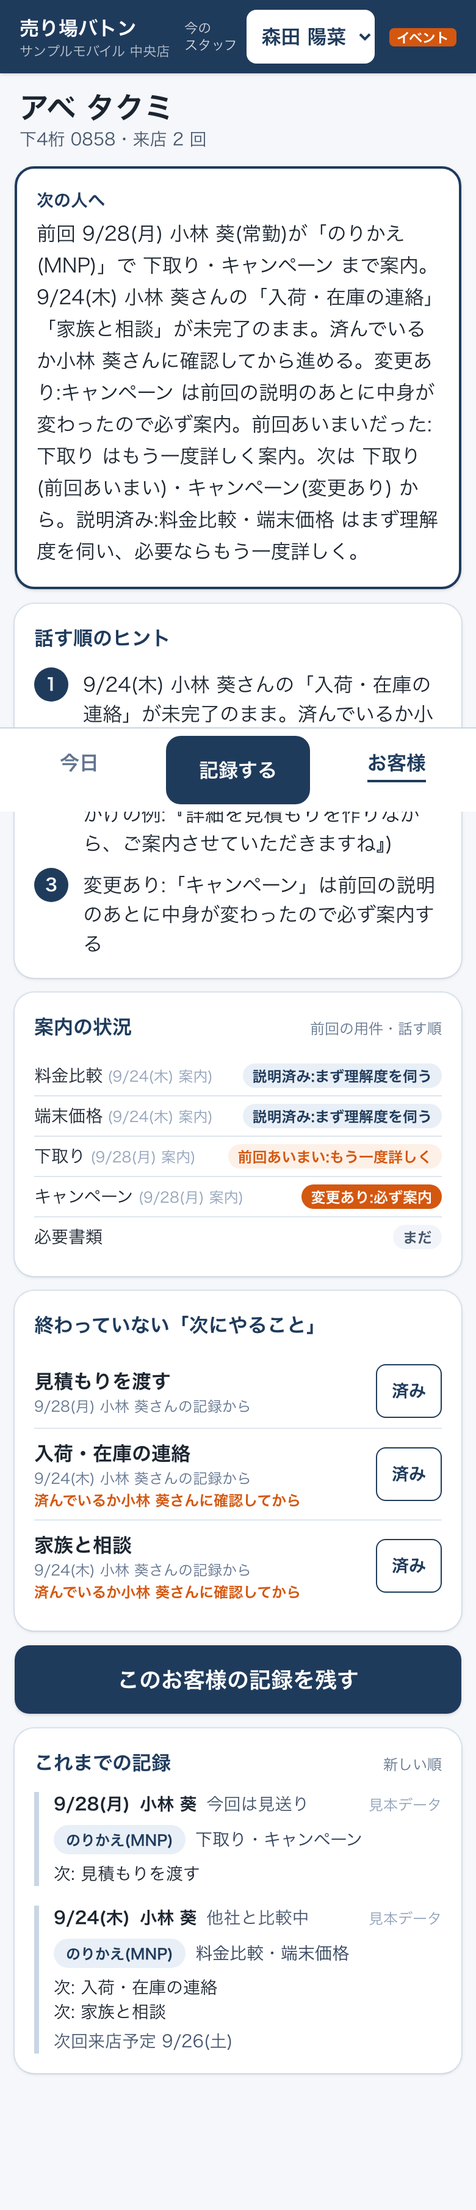
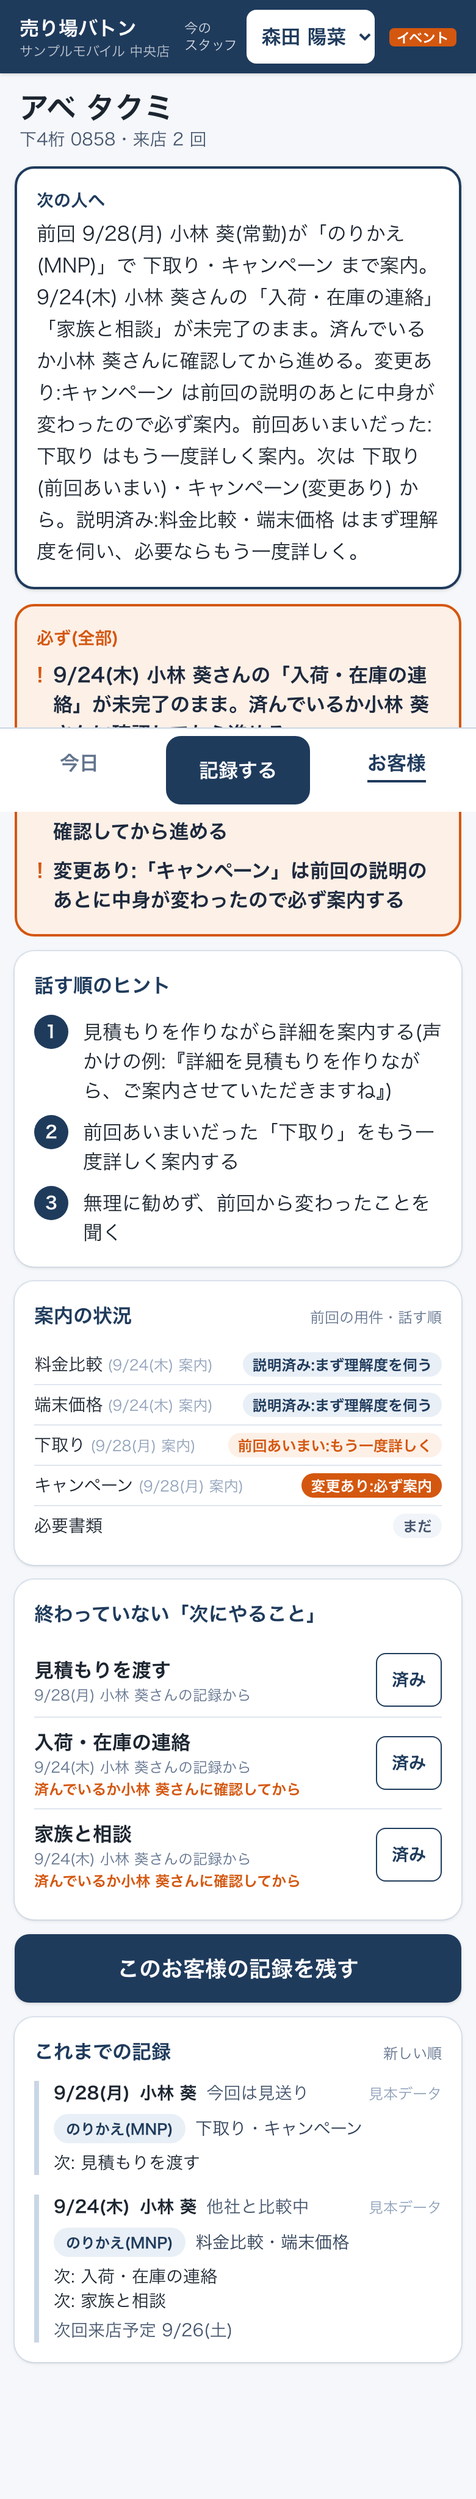
文書:2周目の直し(出どころ不明・指紋・担当者の突き合わせ・版で判定)を03〜05に、連絡先は持たないことを02に、自分で直す課題を06に、学習の経過と分担をREADMEに

diff --git a/docs/03_DB設計.md b/docs/03_DB設計.md
@@ -27,7 +27,7 @@ erDiagram
   staff {
     int id PK
     int store_id FK
-    varchar name "店内で一意"
+    varchar name "同名あり(一意にしない)"
     staff_role role "REGULAR / EVENT"
     boolean is_active
   }
@@ -42,12 +42,13 @@ erDiagram
     uuid customer_id FK
     int staff_id FK "NOT NULL"
     staff_role staff_role_at_visit "記録時点の役割"
-    visit_source source "MANUAL / SEED / E2E"
+    visit_source source "MANUAL / SEED / E2E / UNKNOWN"
     uuid request_id UK "送信ID"
+    char request_fingerprint "送った内容の指紋"
     timestamptz visited_at
     temperature temperature "4段階"
     varchar memo "任意"
-    int input_seconds "0〜3600(CHECK)"
+    int input_seconds "0〜3600(CHECK)・測れなければ空"
     date next_visit_date "任意"
   }
   topics {
@@ -62,7 +63,8 @@ erDiagram
     varchar label
     int sort_order "話す順"
     boolean is_volatile "中身が変わる項目か"
-    date content_revised_on "最後に中身が変わった日(CHECK)"
+    date content_revised_on "最後に中身が変わった日(表示用・CHECK)"
+    int content_version "中身の版"
   }
   visit_topics {
     uuid visit_id PK, FK
@@ -73,6 +75,7 @@ erDiagram
     int checklist_item_id PK, FK
     int topic_id FK
     boolean understanding_unclear "理解があいまい"
+    int explained_version "説明したときの版"
   }
   next_actions {
     uuid id PK
@@ -105,7 +108,7 @@ erDiagram
 | 主キー | マスタ(店・スタッフ・目録)は連番、記録系(お客様・記録・次にやること)は UUID | 記録系の id は URL に出る。連番だと「次の番号」を打てば他のお客様が見えてしまうので、推測しにくい UUID にした |
 | 外部キー | すべての親子 | 「存在しないお客様の記録」を作らせない |
 | 削除時の動き | お客様を消すと記録・用件・チェック・次にやることも消える(CASCADE)。スタッフ・用件の目録は、使われていたら消せない(RESTRICT) | お客様の削除依頼にはまとめて応えられるように。スタッフや目録を消すと過去の記録が読めなくなるので止める |
-| NOT NULL | `visits.staff_id`・`temperature`・`input_seconds` など | 「誰が案内したか必ず残る」を、画面だけでなくDBでも守る |
+| NOT NULL | `visits.staff_id`・`temperature`・`visit_checks.explained_version` など | 「誰が案内したか必ず残る」を、画面だけでなくDBでも守る。`input_seconds` はわざと空を許す(下の「迷った所 11」) |
 | enum | 役割・温度感・次にやることの種類・記録の出どころ | 値の種類が少なく、増えるときは画面の変更も要るものだけ。打ち間違いの値が入らない |
 | CHECK | `phone_last4 ~ '^[0-9]{4}$'` | 下4桁以外(全桁・ハイフン入り)を入れさせない |
 | CHECK | `name_kana ~ '^[ァ-ヶー ]+$'` | 画面で揃え忘れても、ひらがな・漢字が混ざらない(混ざると検索で見つからなくなる) |
@@ -114,7 +117,8 @@ erDiagram
 | CHECK | `content_revised_on` は `is_volatile` の項目にだけ入る | 中身が変わらない項目に改定日が入って「変更あり」が出るのを防ぐ |
 | CHECK | `done_at` と `done_by_staff_id` はそろって入るか、そろって空 | 「済み」なのに誰が済ませたか分からない、を防ぐ |
 | 一意 | `visits(request_id)` | 同じ送信IDの記録は1件しか入らない(二重送信の防止。下の「迷った所 8」) |
-| 一意 | `staff(store_id, name)`・`topics(code)`・`checklist_items(topic_id, label)` | 同じ名前のボタンが2つ並ばないように |
+| 一意 | `topics(code)`・`checklist_items(topic_id, label)` | 同じ名前のボタンが2つ並ばないように |
+| (一意にしない) | `staff(store_id, name)` | 同じ名前のスタッフはありうる(最初は一意にしていたが、2周目の審査で外した)。選択欄では役割のグループと、同名がいるときだけ ID の末尾で見分ける |
 | RLS(行レベルセキュリティ) | 全テーブル | Supabase は public の表を API から読めるようにしている。このアプリはサーバー側の Prisma からしか触らないので、RLS を有効にしてポリシーを作らないことで、API からの直接の読み書きを全部止めた(公開キーで `/rest/v1/customers` を読むと空の配列が返ることを確かめた) |
 
 CHECK 制約と RLS は Prisma のスキーマでは書けないので、[最初のマイグレーション](../prisma/migrations/20261006114703_init/migration.sql)の末尾に手で足している。
@@ -187,27 +191,45 @@ CHECK 制約と RLS は Prisma のスキーマでは書けないので、[最初
 
 保存を2回押した、電波が切れて送り直した、で同じ記録が2件できると、来店回数も集計も狂う。記録画面を開いたときに画面が送信ID(UUID)を1つ作り、記録と一緒に保存する。`visits.request_id` には一意制約を付けた。
 
-- 同じIDがもう保存されていたら、新しく作らずに保存済みの1件を返す
+- 同じIDがもう保存されていて、**中身も同じ**なら、新しく作らずに保存済みの1件を返す
+- 同じIDで**中身が違えば**断る(「内容が変わっています。新しい記録として保存し直してください」)。画面は次の保存から新しい送信IDを使う。以前は黙って古い記録を返していて、直した中身が捨てられていた(2周目の審査で指摘)
+- 中身が同じかは `visits.request_fingerprint`(送った内容を並べ直してから取った SHA-256)で比べる。入力秒数は押すたびに変わるので指紋に入れない
 - 2つが同時に届いたら、後の方はDBの一意制約で失敗する。そこで保存済みの1件を探し直して返す。新規のお客様の作成も同じトランザクションなので、お客様も二重にならない
 
 統合テストで、順番に2回・同時に2回の両方を確かめている。
 
 ### 9. 見本の秒数と、人が入れた秒数を分ける
 
-見本データ(seed)の入力秒数は作り物。これを実測と一緒に平均すると、「30秒以内で残せている」ように見えてしまう(面接官役の審査での指摘)。`visits.source` に出どころ(MANUAL=人が画面で入れた/SEED=見本/E2E=自動テスト)を持たせ、画面の「記録にかかった時間」は MANUAL だけで集計する。見本の秒数は「見本値(参考)」と書いて別に出す。実測が0件のあいだは「まだ実測なし」と出す。
+見本データ(seed)の入力秒数は作り物。これを実測と一緒に平均すると、「30秒以内で残せている」ように見えてしまう(面接官役の審査での指摘)。`visits.source` に出どころ(MANUAL=人が画面で入れた/SEED=見本/E2E=自動テスト/UNKNOWN=出どころ不明)を持たせ、画面の「記録にかかった時間」は MANUAL だけで集計する。
+
+**旧版のDBから上げたときの既存の記録は UNKNOWN にした。** 最初の版では MANUAL にしていたため、見本しか入っていない旧版のDBを上げると、見本が全部「人の実測」になっていた(2周目の審査で指摘)。SEED 扱いにする案もあったが、旧版のDBに人が入れた記録が無いとは言い切れない。分からないものは分からないと残すのが正直なので UNKNOWN にし、どちらの集計にも入れない。このマイグレーションはまだ公開していなかったので、新しいマイグレーションを足すのではなく、そのものを直した(足す形だと、旧版のDBは一度 MANUAL を通ってしまい、あとから見分けられない)。旧版の見本入りDBから上げる移行テストがある。見本の秒数は「見本値(参考)」と書いて別に出す。実測が0件のあいだは「まだ実測なし」と出す。
 
 ### 10. 「説明済み」を期限でなく、理解度と中身の改定で決める(現場の判断。04)
 
 日数で「説明済み」を切ると、1年前の説明も昨日の説明も同じに扱えない一方、「何日なら古いか」に根拠がない。制作者(現場)の答えは「期限ではなく、お客様の理解度を伺う。料金プランやキャンペーンが変わっていたら必ず案内する」だった。そこで、データとして持つのは次の2つにした。
 
 - **`visit_checks.understanding_unclear`**:案内したその場で「理解があいまい」と感じたら付ける印。案内したことの中間表の1行(=その日のその項目の案内)についての事実なので、ここに持つ。既定は false(付けない)で、記録画面では任意のタップ1回。あとの来店で同じ項目をあいまいの印なしで案内したら、説明済みに戻る
-- **`checklist_items.is_volatile` と `content_revised_on`**:料金・キャンペーンのように中身が変わる項目か、と、最後に中身が変わった日。最後に説明した日 ≦ 改定日 なら「変更あり:必ず案内」(同じ日はどちらが先か分からないので、必ず案内する方に倒す)
+- **`checklist_items.is_volatile` と `content_version`**:料金・キャンペーンのように中身が変わる項目か、と、今の中身の版(中身が変わるたびに1つ上げる)。`content_revised_on`(最後に変わった日)は表示用に残している
+- **`visit_checks.explained_version`**:説明したときの、その項目の版。保存するときにDBの今の版を写す
+- 判定:中身が変わる項目で、**説明した版 ≠ 今の版** なら「変更あり:必ず案内」。説明済みには数えない
 
-改定の**履歴の表**(いつ・何が変わったか)を作る案もあった。今の判断に要るのは「最後に変わった日」だけなので、列1つにした。「何が変わったか」を画面に出したくなったら、`checklist_item_revisions(item_id, revised_on, note)` に分ける。
+#### 日付の比較をやめて、版で比べるようにした理由
+
+最初は「最後に説明した日 ≦ 改定日 なら変更あり」と日付で比べていた。これだと、改定した**当日**に説明した記録は、改定の前に説明したのか後に説明したのか分からない(当日は必ず案内する方に倒していたので、改定後の新しい中身を説明した人の記録まで「変更あり」になっていた。2周目の審査で指摘)。説明したときに「どの版を説明したか」を残せば、日付に関係なく正しく決まる。同じ日に2回改定しても版は2つ上がるので区別できる。
+
+版の列を足す前の記録は、来店日で推し量って埋めた(改定日の当日以前なら古い版、後なら今の版。当日は古い版=必ず案内し直す側に倒した)。推し量りはこの1回だけで、これから入る記録は版をそのまま残す。
+
+改定の**履歴の表**(いつ・何が変わったか)を作る案もあった。今の判断に要るのは「説明した版と今の版が同じか」だけなので、列で足りる。「何が変わったか」を画面に出したくなったら、`checklist_item_revisions(item_id, version, revised_on, note)` に分ける。
 
 ### 11. 入力秒数は「最初の入力から」
 
-画面を開いた時から数えると、接客中に画面を開いておいた時間(数分)が混ざる。最初のタップ・文字入力から保存までを入力時間にした。計算は関数にして単体テストしている。
+画面を開いた時から数えると、接客中に画面を開いておいた時間(数分)が混ざる。**入力の値が最初に変わった時**から保存までを入力時間にした。タップでもキーボードだけの操作でも同じ所(値の変化)で拾う。
+
+一度も入力しないまま保存された場合など、測れなかったときは **0秒にせず空(NULL)** で残し、集計に入れない。0秒で残すと平均が実際より速く見えるため。`input_seconds` が NOT NULL でないのはこのため。
+
+### 12. 画面に出ていた担当者と、保存する人を突き合わせる
+
+「今のスタッフ」はブラウザの Cookie に覚えている。別のタブで担当者を切り替えると、記録画面には前の人の名前が出たまま、保存は新しい人の名前で残ってしまう(2周目の審査で指摘)。記録画面は、画面に出している担当者の ID を一緒に送る。保存するときの「今のスタッフ」と違えば保存せず、「担当者が切り替わっています。画面上部で担当者を選び直してから保存してください」と返す(統合テスト・画面テストあり)。
 
 ## 店の境界:DBで守っていること・関数で守っていること
 

diff --git a/docs/05_テストと確かめ.md b/docs/05_テストと確かめ.md
@@ -4,9 +4,9 @@
 
 | 段 | コマンド | 何を試すか | 本数 |
 |---|---|---|---|
-| 単体テスト(DBなし) | `npm test` | 「次の人へ」の要約・話す順のヒント(現場の判断3つ・文の矛盾の組み合わせ24通り)・入力秒数(最初の入力から)と集計・日本時間の日付(年またぎ含む)・カナの揃え方・保存前の入力チェック・seed の接続先の確認 | 81本 |
-| 統合テスト(実DB) | `npm run test:db` | 年またぎの来店予定・同時に「済み」・同時に記録・二重送信(順番/同時)・記録時点の役割・見本と実測の分離・店の境界・現場の判断3つをDBの記録から通しで・トランザクションの巻き戻し・DBの制約 | 18本 |
-| 画面の通しテスト | `npm run test:e2e` | iPhone 13 の大きさの画面で、イベントスタッフが記録(理解があいまいの印つき)→ 常勤が続きから記録/スタッフ未選択では保存できない/二重登録の候補表示 | 3本 |
+| 単体テスト(DBなし) | `npm test` | 「次の人へ」の要約・話す順のヒント(現場の判断3つ・文の矛盾の組み合わせ24通り)・入力秒数(最初の入力から)と集計・日本時間の日付(年またぎ含む)・カナの揃え方・保存前の入力チェック・seed の接続先の確認 | 91本 |
+| 統合テスト(実DB) | `npm run test:db` | 年またぎの来店予定・同時に「済み」・同時に記録・二重送信(順番/同時/中身が違う再送)・担当者の食い違い・記録時点の役割・見本と実測の分離・測れなかった秒数・説明した版・店の境界・現場の判断3つをDBの記録から通しで・トランザクションの巻き戻し・DBの制約・**旧版の見本入りDBから上げる移行** | 24本 |
+| 画面の通しテスト | `npm run test:e2e` | iPhone 13 の大きさの画面で、イベントスタッフが記録(理解があいまいの印つき)→ 常勤が続きから記録/スタッフ未選択では保存できない/二重登録の候補表示/別のタブで担当者を替えたら保存を断る | 4本 |
 | 静的チェック | `npm run lint` / `npm run typecheck` | ESLint・TypeScript strict | - |
 | build | `npm run build` | DBにつながらない状態でも通る | - |
 
@@ -55,6 +55,16 @@ CI(`.github/workflows/ci.yml`)で全部を流す。DBを使うテストは GitHu
 - 単体:その日の案内(なし/一部/全部)× それ以前の案内 × 前々回の約束 × あいまいの印、の24通りで、要約の文が矛盾しない(「次は」と「一通り済み」が同時に出ない、「説明済み」と「次は」に同じ項目が出ない)ことを確かめた
 - 統合:DBに入れた記録から、あいまいの印・キャンペーンの改定・前々回の未完了の約束が、要約とヒントに出ることを通しで確かめた
 
+### 2周目の審査の直し
+- **旧版から上げる移行**:使い捨てのDBに旧版までのマイグレーションを流し、旧版の形の見本の行を入れてから残りを流す。既存の記録が UNKNOWN(出どころ不明)になり MANUAL に混ざらないこと、版・役割・送信IDが埋まること、これからの記録の既定が MANUAL なことを確かめた
+- **中身の違う再送**:同じ送信IDで温度感だけ変えて送ると断られ、記録は1件のまま。秒数だけ違う押し直しは同じ内容として1件にまとまる(統合)。指紋は並び順に左右されず、中身が1つ違えば変わる(単体)
+- **担当者の食い違い**:画面の担当者と保存する人が違うと保存されず、新規のお客様も作られない(統合)。別のタブで担当者を替えてから保存すると断られる(画面)
+- **秒数**:測れなかった記録は null で残り、集計に入らない(単体・統合)
+- **必ずの枠**:前々回以前の約束4件+変更あり1件=5件が、3件で切られず全部出る(単体)
+- **版で判定**:改定と説明が同じ日でも、古い版の説明なら変更あり・今の版なら説明済み。版2を説明したあと版3になったら変更あり(単体)
+- **入力の型**:文字の数字・重複・null・小数・一覧にない値が1つでもあれば、欄の名前つきで断る(単体)
+- **同名のスタッフ**:同じ店に同じ名前で登録でき、選択欄では ID の末尾で見分ける(統合・単体)
+
 ### DBの制約
 - 選んでいない用件の項目のチェック・数字4つでない下4桁・漢字の混ざったカナ・自由記入なしの「その他」を、それぞれDBが弾くことを統合テストで確かめた
 - 保存の途中で失敗したら、新規のお客様も作られない(1つのトランザクション)
@@ -65,12 +75,12 @@ CI(`.github/workflows/ci.yml`)で全部を流す。DBを使うテストは GitHu
 ### Supabase の API から読めない
 - 公開キーで `/rest/v1/customers` を読むと空の配列が返る(RLS が効いている)
 
-## 結果(2026-10-07、ローカル。現場の判断を入れたあと)
+## 結果(2026-10-07、ローカル。2周目の審査の直しのあと)
 
 ```
-npm test           → 81 passed
-npm run test:db    → 18 passed(Supabase ローカル / 素の postgres:17 の両方)
-npm run test:e2e   → 3 passed
+npm test           → 91 passed
+npm run test:db    → 24 passed(Supabase ローカル / 素の postgres:17 の両方)
+npm run test:e2e   → 4 passed
 npm run lint       → エラー0
 npm run typecheck  → エラー0
 npm run build      → 成功(DBにつながらない状態でも成功)

diff --git a/README.md b/README.md
@@ -6,6 +6,15 @@
 - **「30秒以内」は目標。現場の人での計測はまだしていない**。入力秒数を記録する仕組みは入れたので、次は実際に使ってもらって測る
 - いまは**ローカルで動く見本**。ログイン認証はまだ無い。現場で試す前に Supabase Auth と店舗単位の認可を入れる(下の「今後の改善」)
 
+**本作品の分担**:業務の判断と仕様=制作者/実装の大部分=Claude Code/確かめ=テストと、別のAIによる面接官役の審査(経過は [04_AIとの作業記録](docs/04_AIとの作業記録.md))
+
+**制作者の学習の経過**
+
+- 2020年から HTML/CSS・Ruby・Python を独学(休止期間あり)。2025年10月から本格的に再開
+- 2020年、Qiita にブラックジャックのプログラムを投稿(AIは使わずに書いた)
+- paiza スキルチェック Bランク(Python)
+- 2026年9月 AWS Certified Cloud Practitioner 取得
+
 | 今日の一覧 | お客様カード | 記録する |
 |---|---|---|
 | <img src="docs/images/today.png" width="240" alt="今日の一覧"> | <img src="docs/images/customer-card.png" width="240" alt="お客様カード"> | <img src="docs/images/record.png" width="240" alt="記録する"> |
@@ -20,8 +29,8 @@
 | 2. 要件 | 困りごと・やること/やらないこと・完成の基準 | [02_要件](docs/02_要件.md) |
 | 3. DB設計 | 正規化した9テーブル・ER図・制約の理由・迷った所 | [03_DB設計](docs/03_DB設計.md) |
 | 4. 実装 | Next.js + TypeScript + Prisma + Supabase。AIとの分担と直した所 | [04_AIとの作業記録](docs/04_AIとの作業記録.md) |
-| 5. テスト | 単体81本・DB統合18本・画面3本・CI | [05_テストと確かめ](docs/05_テストと確かめ.md) |
-| 6. 改善 | 面接官役の審査の指摘を直し、業務の判断は制作者に聞いて反映した(04「現場の判断」)。次は入力秒数を現場で測って直す | 下の「今後の改善」 |
+| 5. テスト | 単体91本・DB統合24本・画面4本・CI | [05_テストと確かめ](docs/05_テストと確かめ.md) |
+| 6. 改善 | 面接官役の審査(2周)の指摘を直し、業務の判断は制作者に聞いて反映した(04「現場の判断」)。1件は制作者が自分で直す課題として残した | [06_自分で直す課題](docs/06_自分で直す課題.md)・下の「今後の改善」 |
 
 ## 困りごと
 
@@ -34,8 +43,9 @@
 ## 作ったもの
 
 - **短く残せる記録(目標30秒)**:お客様 → 用件 → 案内したこと → 温度感 → 次にやること → 次回来店予定。全部タップ。担当者は画面上部の「今のスタッフ」から自動で入る
-- **入力秒数の記録**:最初の入力から保存までの秒数を毎回保存(画面を開いたまま接客する時間は混ぜない)。平均と「30秒以内の割合」を、常勤・イベントスタッフに分けて出す。見本データ・自動テストの秒数は実測に混ぜず、見本値は「参考」と書いて分ける
-- **二重送信の防止**:保存を2回押しても、通信が切れて送り直しても、記録は1件
+- **入力秒数の記録**:最初の入力から保存までの秒数を毎回保存(画面を開いたまま接客する時間は混ぜない。測れなかった記録は集計に入れない)。平均と「30秒以内の割合」を、常勤・イベントスタッフに分けて出す。見本データ・自動テストの秒数は実測に混ぜず、見本値は「参考」と書いて分ける
+- **二重送信の防止**:保存を2回押しても、通信が切れて送り直しても、記録は1件。同じ送信で中身が違えば断る
+- **担当者の取り違え防止**:画面に出ている担当者と、保存する人が違えば保存しない
 - **お客様カード**:名前カナか電話番号の下4桁で探す。一番上に
   「前回 10/3(土) 森田 陽菜(イベント)が「のりかえ(MNP)」で 料金比較・端末価格 まで案内。次は 下取り・キャンペーン から。説明済み:料金比較・端末価格 はまず理解度を伺い、必要ならもう一度詳しく。」
   その下に「話す順のヒント」3つ、「案内の状況」(説明済み・前回あいまい・変更あり・まだ)、過去の記録
@@ -100,6 +110,7 @@ npm run lint && npm run typecheck && npm run build
 
 1. **ログインと店舗単位の認可(現場で試す前に必須)**:Supabase Auth でスタッフごとにログインし、「今のスタッフ」を置き換える。いまの RLS は「Supabase の API から直接読めない」ことだけを守っていて、アプリのサーバーから先は誰でも全部読める。ログインした人の店だけを読む・書く確認を入れる
 2. **売り場で使ってもらう**:入力秒数の実測の平均と「30秒以内の割合」を見て、時間がかかっている段を減らす。特にイベントスタッフの数字を見る
-3. **重複したお客様をまとめる**:同じ瞬間の新規登録は二重になりうる(05 に書いた)
-4. **記録の修正**:履歴を残す形で
-5. **公開**:Vercel と Supabase(本番)へ。持ち主の確認のあと
+3. **予定日を空欄にした記録で、前の来店予定が消える件**:制作者が自分で直す([06](docs/06_自分で直す課題.md))
+4. **重複したお客様をまとめる**:同じ瞬間の新規登録は二重になりうる(05 に書いた)
+5. **記録の修正**:履歴を残す形で
+6. **公開**:Vercel と Supabase(本番)へ。持ち主の確認のあと

diff --git a/docs/04_AIとの作業記録.md b/docs/04_AIとの作業記録.md
@@ -109,6 +109,29 @@
 - DB:案内項目に「中身が変わる項目か」「最後に中身が変わった日」、案内したことに「理解があいまい」を足した(理由は 03)
 - 入力秒数は「画面を開いてから」ではなく「最初の入力から」保存までにした(番頭から、開いたまま放置すると276秒のように数えてしまうと指摘)
 
-### 11. AIがやらなかったこと
+### 11. 面接官役の審査 2周目 → 直したこと(2026-10-07)
+2周目の審査の指摘を番頭(取りまとめ役のAI)が仕分け、「作り込みを増やすより、正しく・説明しやすくする」方針で直した。
+
+| 指摘 | 直したこと |
+|---|---|
+| 旧版のDBを上げると、既存の記録が全部「人の実測」になる | 既存の記録は UNKNOWN(出どころ不明)にして集計から外す。公開前のマイグレーションそのものを直した(理由は 03「迷った所 9」)。旧版の見本入りDBから上げる移行テストを足した |
+| 同じ送信IDで中身の違う再送を、黙って古い記録で返している | 送った内容の指紋を保存し、違えば断る。画面は次の保存から新しい送信IDを使う |
+| 画面の担当者と保存する人が食い違うことがある | 画面に出ている担当者のIDを一緒に送り、違えば保存しない |
+| キーボードだけだと秒数が始まらない/測れないと0秒になる | 値の変化から測る。測れなかったら空で残し、集計に入れない |
+| 「必ず案内」「担当者に確認」がヒントの3件で切られる | 「必ず」の枠に分けて全部出す。補助のヒントだけ3件まで |
+| 改定した当日の説明が正しく判定できない | 日付の比較をやめ、説明した版を残して今の版と比べる(03「日付の比較をやめて、版で比べるようにした理由」) |
+| 入力の不正な値を黙って捨てたり変換したりしている | 型を先に確かめ、おかしな値が1つでもあれば欄ごとのエラーで断る |
+| 同じ名前のスタッフが登録できない | 名前の一意制約を外し、同名は選択欄で ID の末尾で見分ける |
+| 連絡先をどこで見るか | 02 に「店の既存の顧客台帳で確かめる。本作品は持たない」と書いた |
+
+わざと直さなかったもの:
+- 予定日を空欄にした記録で、前の来店予定が一覧から消える件。制作者が自分で Claude Code を使って直す課題にした([06_自分で直す課題](06_自分で直す課題.md))。テストも今のまま
+
+直す途中であったこと:
+- 公開前のマイグレーション(20261006121000)を直したので、このPCのローカルDBの履歴のチェックサムが合わなくなる。全消し(reset)は使わず、ローカルDBに UNKNOWN の値を足し、履歴のチェックサムを直した内容のものに書き換えて合わせた。そのあと差分が無いことを確かめた
+- スキーマを書き換える前にマイグレーションだけが先に適用されてしまった(スキーマの置き換えが文字の食い違いで失敗していた)。スキーマを行ごとに直して合わせ、差分が無いことを確かめた
+- 担当者の食い違いの画面テストは、1回目に Next.js 自身の読み上げ用の要素まで拾って失敗した。テストの探し方を絞って直した(動き自体は合っていた)
+
+### 12. AIがやらなかったこと
 - GitHub への push・リモートの追加・デプロイ・アカウント作成
 - ローカルの Supabase の既定値以外の秘密の値を作ること(`.env` は git の対象外。`.env.example` だけ入れている)

diff --git a/docs/06_自分で直す課題.md b/docs/06_自分で直す課題.md
@@ -1,0 +1,22 @@
+# 06 自分で直す課題
+
+制作者が自分で(Claude Code を使って)直す課題。直し方はここには書かない。
+
+## 課題1 予定日を空欄にした記録で、前の来店予定が一覧から消える
+
+### 何が起きるか(再現手順)
+
+1. 見本データを入れる(`npm run db:seed`)。画面上部で「今のスタッフ」を選ぶ
+2. 新規のお客様で記録する。用件・温度感を選び、**次回来店予定に1週間後の日付**を入れて保存する
+3. 「今日」の画面の「今週のこのあとの予定」(週をまたぐ場合は翌週以降の画面)で、そのお客様が予定として出ることを確かめる
+4. 同じお客様を開き、「このお客様の記録を残す」から、もう1件記録する。**次回来店予定は空欄のまま**保存する
+5. 「今日」の画面に戻ると、手順2で入れた来店予定が一覧から消えている
+
+今の作りは、お客様ごとに「いちばん新しい記録」の次回来店予定だけを見ている。統合テスト「その後に来店して新しい記録ができたら、古い予定は一覧から消える」は、この動きを正しいものとして確かめている。
+
+### なぜ困るか(売り場の場面)
+
+- 月曜に来たお客様と「土曜に書類を持ってまた来ます」と約束し、予定日を土曜で記録した
+- 水曜に同じお客様が、別の用事(ケースを買いに、など)で立ち寄った。対応したイベントスタッフは、土曜の約束を知らないまま、予定日を空欄で記録した
+- 土曜の朝、「今日の来店予定」にそのお客様が出ない。書類の確認や在庫の取り置きなど、来店前にしておく準備がされない
+- お客様は約束どおり来たのに、スタッフは知らない。「前回だれに何を聞いたか分からない」という、この作品が解きたかった困りごとがまた起きる

diff --git a/docs/02_要件.md b/docs/02_要件.md
@@ -43,9 +43,15 @@
 | 前回より前の約束が未完了のまま | 済んでいるか、その記録の担当者に確認してから進める |
 | 説明済みの項目 | 期限で切らない。まず理解度を伺い、必要ならもう一度詳しく |
 | 前回「理解があいまい」だった項目 | もう一度詳しく案内 |
-| 料金・キャンペーンなどで、前回の説明のあとに中身が変わった | 必ず案内(説明済みに数えない) |
+| 料金・キャンペーンなどで、前回説明した版と今の版が違う | 必ず案内(説明済みに数えない) |
 
-**誰が「中身が変わった日」を入れるか**:店長が、料金プランやキャンペーンが変わった日に入れる想定。**入れる画面はこの版では作っていない**。見本データでは「キャンペーンは seed を流した日の6日前に変わった」として入れている(2026-10-07 に流すと 10/1)。
+「担当者に確認」と「変更あり:必ず案内」は、話す順のヒント(3つまで)とは別の「必ず」の枠に**全部**出す。件数で切ると、確かめるべきことが画面から消えるため。
+
+**誰が中身の改定を入れるか**:店長が、料金プランやキャンペーンが変わったときに、その項目の版を1つ上げ、変わった日を入れる想定。**入れる画面はこの版では作っていない**。見本データでは「キャンペーンは seed を流した日の6日前に変わった」として入れている(2026-10-07 に流すと 10/1)。
+
+## 連絡先は持たない
+
+「こちらから連絡」「入荷・在庫の連絡」のように連絡が要る「次にやること」は、**店の既存の顧客台帳(本作品の外)で連絡先を確かめて**連絡する。本作品は電話番号の下4桁より多くの連絡先を持たない。個人情報を最小にするため。
 
 ## やらないこと(この版)と、その理由
 
